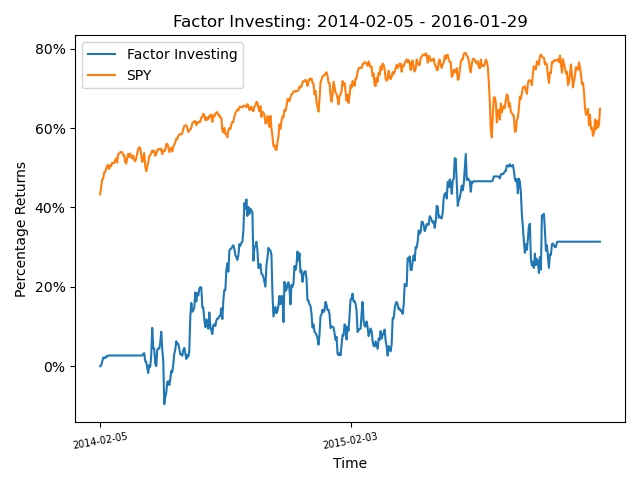
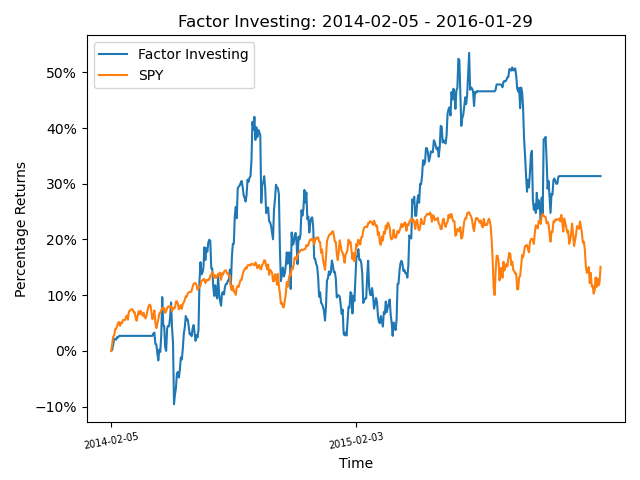
working backtest again :)

diff --git a/Alphas/run_model.py b/Alphas/run_model.py
@@ -30,13 +30,18 @@ def plot_all(data: pd.Series = portfolio_history, *args: List[Union[pd.Series, s
                     raise InvalidPlotArgument
                 series = series.iloc[:, 0]
             normalized_series = normalize_data(series)
-            normalized_series.name = label
+            print("NORM SERIES:\n", normalized_series)
+            series.name = label
             data = data.merge(
-                normalized_series.to_frame(),
+                series,
                 how="left",
                 left_index=True,
                 right_index=True,
             )
+
+            data[label] = normalize_data(data[label])
+
+        print("\n\nDATA: \n", data)
 
         ax.set_xlabel("Time")
         ax.set_ylabel("Percentage Returns")
